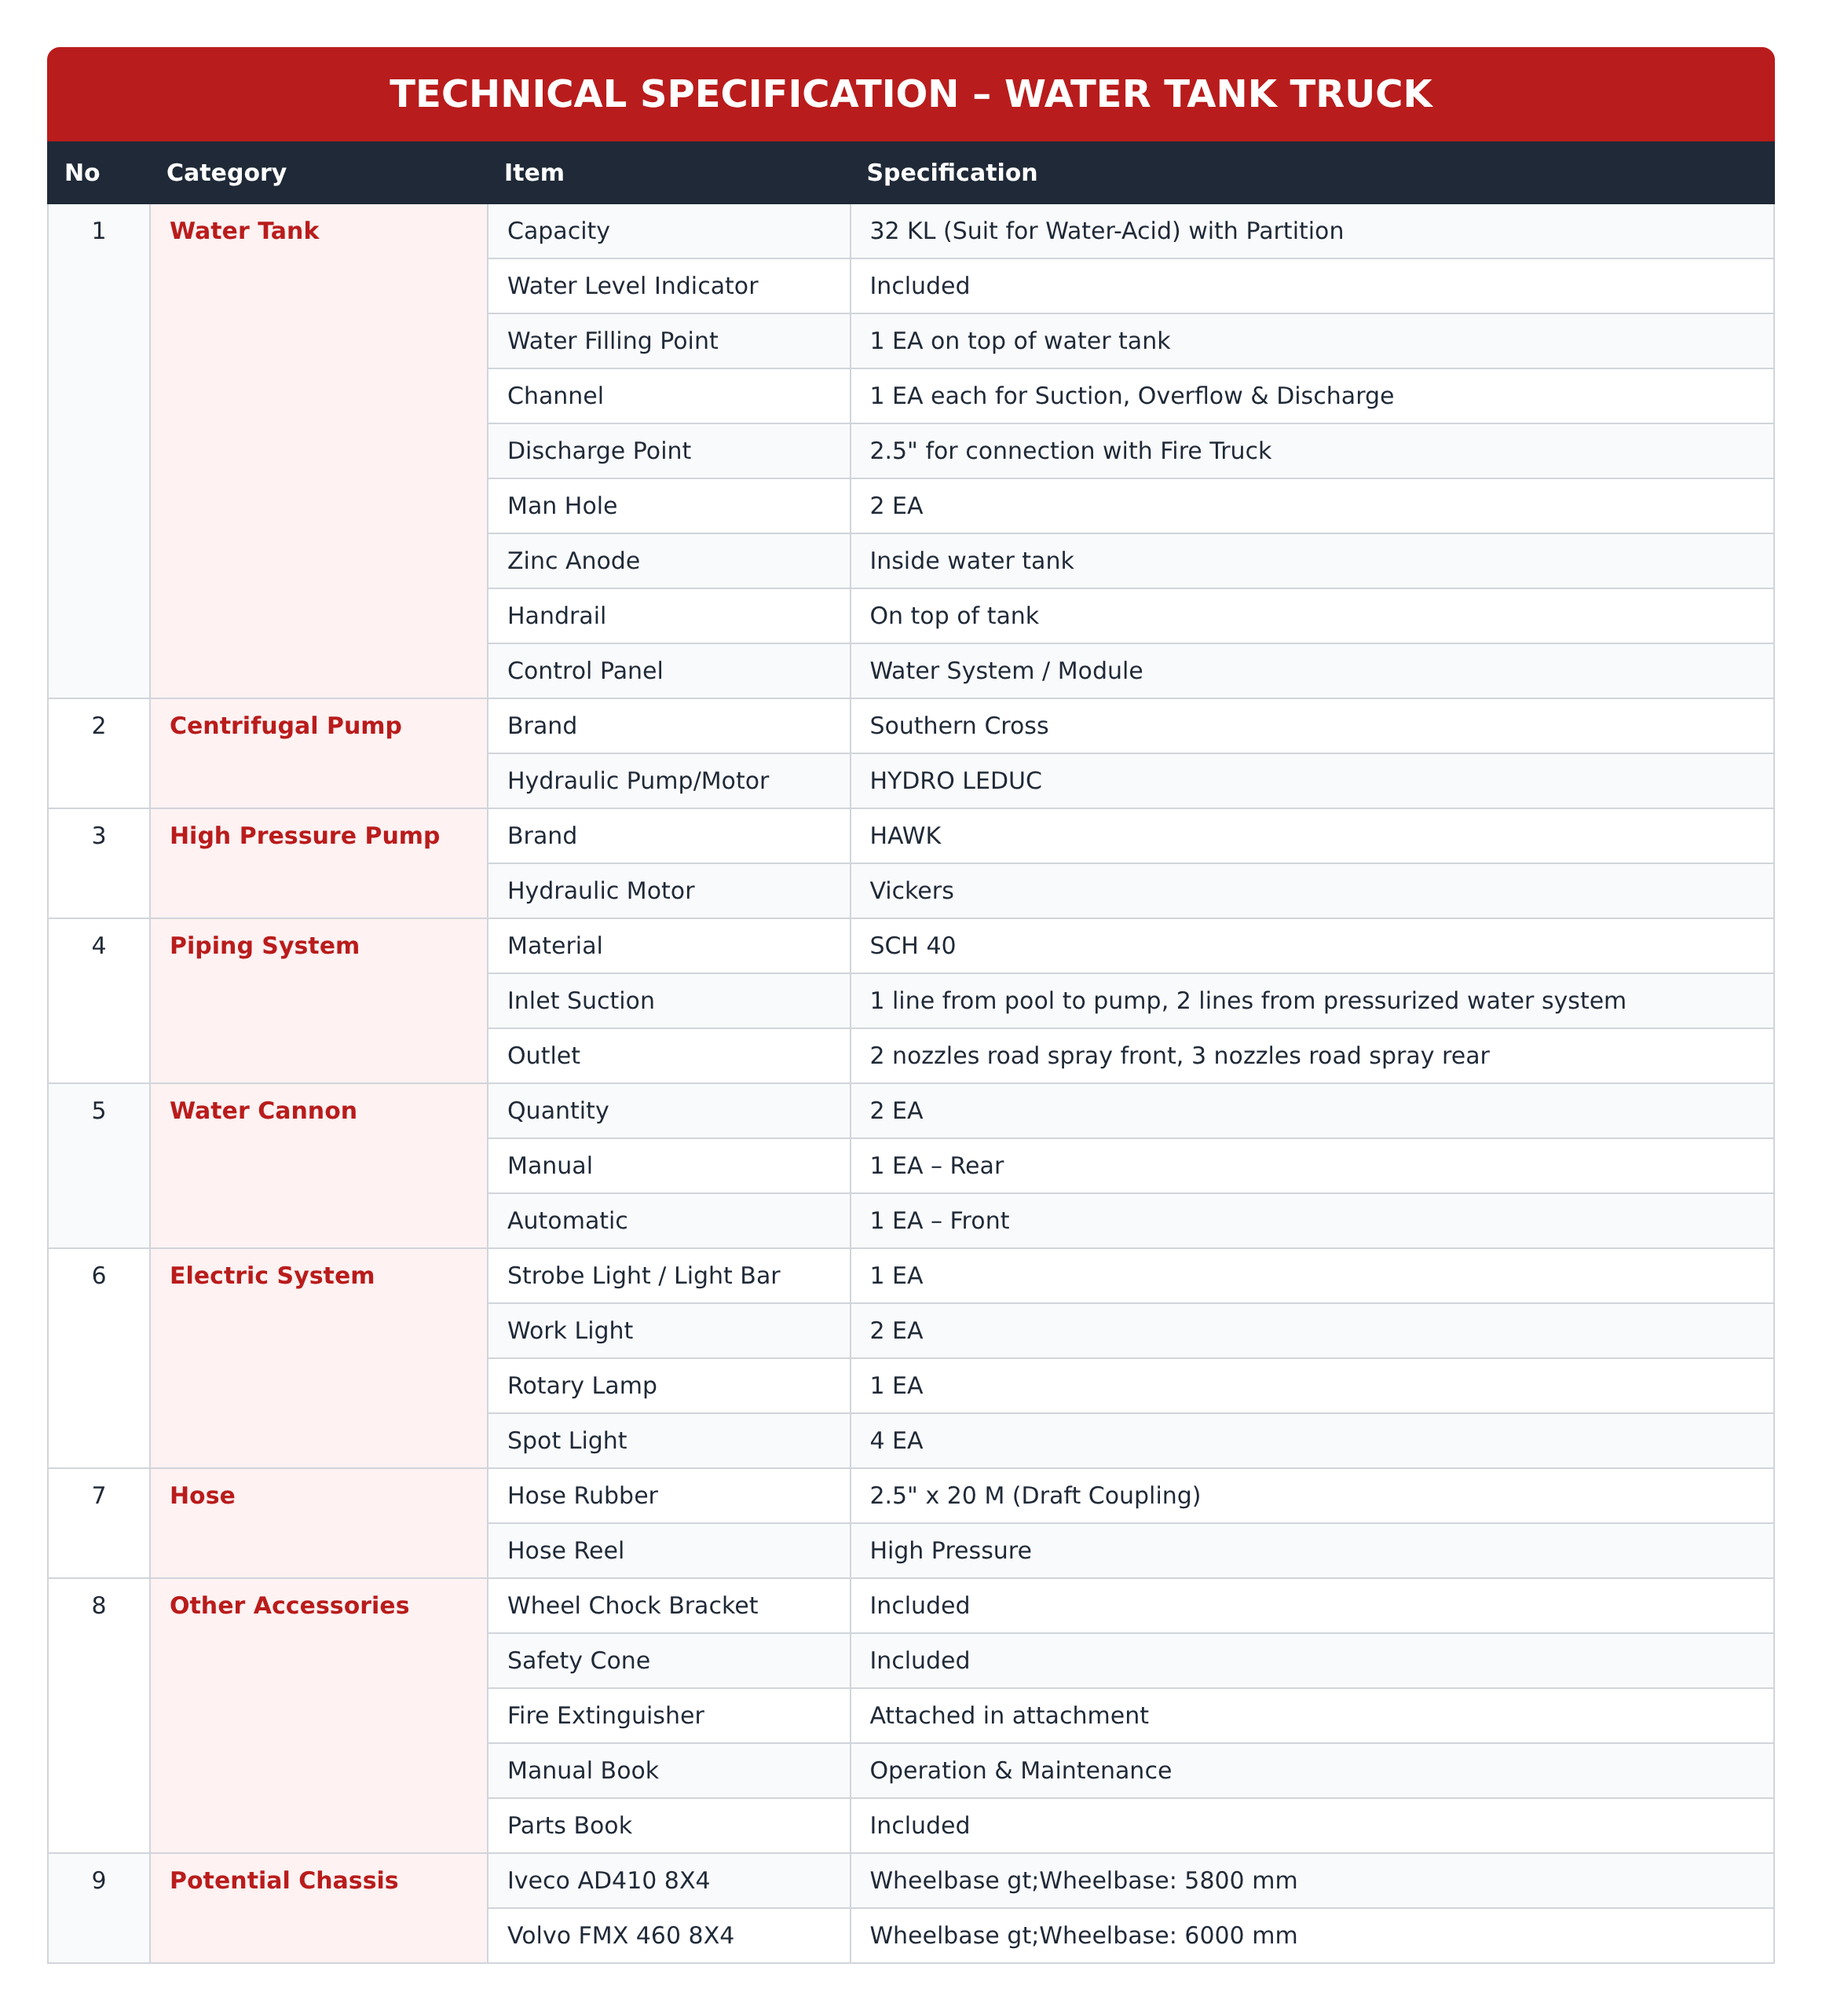
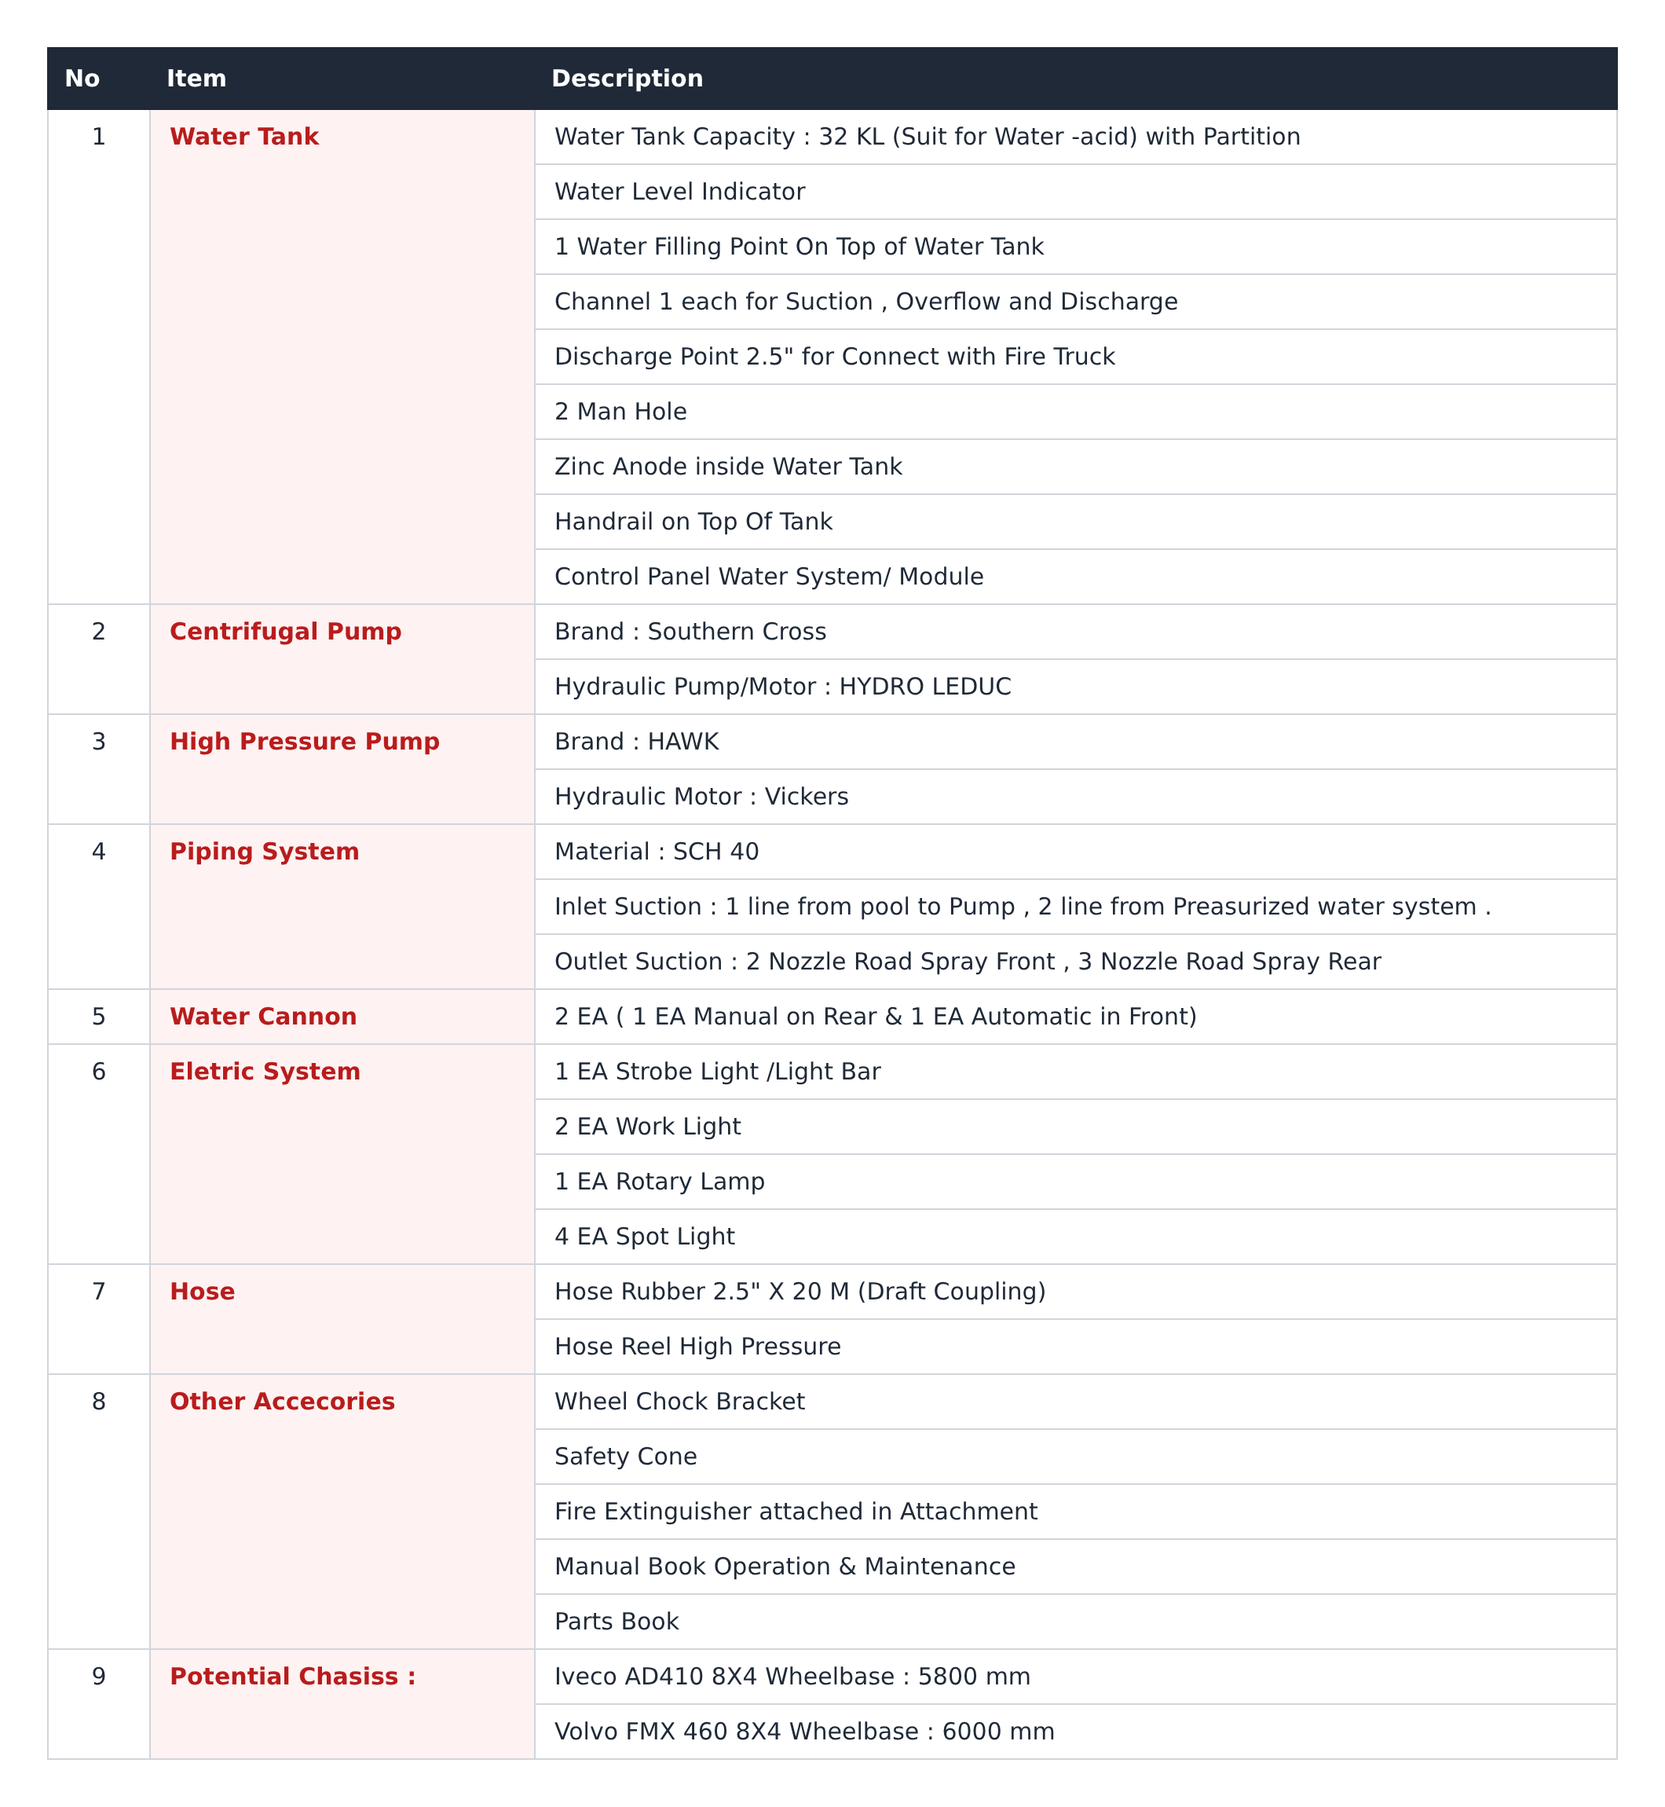
Use original specification text verbatim in table
Claude-Session: https://claude.ai/code/session_01WVXA4RPNs2JwgP1czcHMWC

diff --git a/spesifikasi/table.html b/spesifikasi/table.html
@@ -1,44 +1,39 @@
 <!doctype html><html><head><meta charset="utf-8"><style>
-body{font-family:"DejaVu Sans",Arial,sans-serif;background:#fff;width:1100px;padding:30px;margin:0;color:#1f2937}
-h1{background:#b91c1c;color:#fff;font-size:24px;padding:16px 20px;margin:0;border-radius:8px 8px 0 0;text-align:center}
+body{font-family:"DejaVu Sans",Arial,sans-serif;background:#fff;width:1000px;padding:30px;margin:0;color:#1f2937}
 table{width:100%;border-collapse:collapse;font-size:15px}
 th{background:#1f2937;color:#fff;padding:10px;text-align:left;border:1px solid #1f2937}
 td{border:1px solid #d1d5db;padding:8px 12px;vertical-align:top}
-td.cat{background:#fef2f2;font-weight:bold;color:#b91c1c;width:190px}
+td.cat{background:#fef2f2;font-weight:bold;color:#b91c1c;width:220px}
 td.no{text-align:center;width:40px}
-tr:nth-child(even) td:not(.cat){background:#f9fafb}
-</style></head><body><h1>TECHNICAL SPECIFICATION – WATER TANK TRUCK</h1>
-<table><tr><th>No</th><th>Category</th><th>Item</th><th>Specification</th></tr>
-<tr><td class="no" rowspan="9">1</td><td class="cat" rowspan="9">Water Tank</td><td>Capacity</td><td>32 KL (Suit for Water-Acid) with Partition</td></tr>
-<tr><td>Water Level Indicator</td><td>Included</td></tr>
-<tr><td>Water Filling Point</td><td>1 EA on top of water tank</td></tr>
-<tr><td>Channel</td><td>1 EA each for Suction, Overflow &amp; Discharge</td></tr>
-<tr><td>Discharge Point</td><td>2.5" for connection with Fire Truck</td></tr>
-<tr><td>Man Hole</td><td>2 EA</td></tr>
-<tr><td>Zinc Anode</td><td>Inside water tank</td></tr>
-<tr><td>Handrail</td><td>On top of tank</td></tr>
-<tr><td>Control Panel</td><td>Water System / Module</td></tr>
-<tr><td class="no" rowspan="2">2</td><td class="cat" rowspan="2">Centrifugal Pump</td><td>Brand</td><td>Southern Cross</td></tr>
-<tr><td>Hydraulic Pump/Motor</td><td>HYDRO LEDUC</td></tr>
-<tr><td class="no" rowspan="2">3</td><td class="cat" rowspan="2">High Pressure Pump</td><td>Brand</td><td>HAWK</td></tr>
-<tr><td>Hydraulic Motor</td><td>Vickers</td></tr>
-<tr><td class="no" rowspan="3">4</td><td class="cat" rowspan="3">Piping System</td><td>Material</td><td>SCH 40</td></tr>
-<tr><td>Inlet Suction</td><td>1 line from pool to pump, 2 lines from pressurized water system</td></tr>
-<tr><td>Outlet</td><td>2 nozzles road spray front, 3 nozzles road spray rear</td></tr>
-<tr><td class="no" rowspan="3">5</td><td class="cat" rowspan="3">Water Cannon</td><td>Quantity</td><td>2 EA</td></tr>
-<tr><td>Manual</td><td>1 EA – Rear</td></tr>
-<tr><td>Automatic</td><td>1 EA – Front</td></tr>
-<tr><td class="no" rowspan="4">6</td><td class="cat" rowspan="4">Electric System</td><td>Strobe Light / Light Bar</td><td>1 EA</td></tr>
-<tr><td>Work Light</td><td>2 EA</td></tr>
-<tr><td>Rotary Lamp</td><td>1 EA</td></tr>
-<tr><td>Spot Light</td><td>4 EA</td></tr>
-<tr><td class="no" rowspan="2">7</td><td class="cat" rowspan="2">Hose</td><td>Hose Rubber</td><td>2.5" x 20 M (Draft Coupling)</td></tr>
-<tr><td>Hose Reel</td><td>High Pressure</td></tr>
-<tr><td class="no" rowspan="5">8</td><td class="cat" rowspan="5">Other Accessories</td><td>Wheel Chock Bracket</td><td>Included</td></tr>
-<tr><td>Safety Cone</td><td>Included</td></tr>
-<tr><td>Fire Extinguisher</td><td>Attached in attachment</td></tr>
-<tr><td>Manual Book</td><td>Operation &amp; Maintenance</td></tr>
-<tr><td>Parts Book</td><td>Included</td></tr>
-<tr><td class="no" rowspan="2">9</td><td class="cat" rowspan="2">Potential Chassis</td><td>Iveco AD410 8X4</td><td>Wheelbase gt;Wheelbase: 5800 mm</td></tr>
-<tr><td>Volvo FMX 460 8X4</td><td>Wheelbase gt;Wheelbase: 6000 mm</td></tr>
+</style></head><body><table><tr><th>No</th><th>Item</th><th>Description</th></tr>
+<tr><td class="no" rowspan="9">1</td><td class="cat" rowspan="9">Water Tank</td><td>Water Tank Capacity : 32 KL (Suit for Water -acid) with Partition</td></tr>
+<tr><td>Water Level Indicator</td></tr>
+<tr><td>1 Water Filling Point On Top of Water Tank</td></tr>
+<tr><td>Channel 1 each for Suction , Overflow and Discharge</td></tr>
+<tr><td>Discharge Point 2.5&quot; for Connect with Fire Truck</td></tr>
+<tr><td>2 Man Hole</td></tr>
+<tr><td>Zinc Anode inside Water Tank</td></tr>
+<tr><td>Handrail on Top Of Tank</td></tr>
+<tr><td>Control Panel Water System/ Module</td></tr>
+<tr><td class="no" rowspan="2">2</td><td class="cat" rowspan="2">Centrifugal Pump</td><td>Brand : Southern Cross</td></tr>
+<tr><td>Hydraulic Pump/Motor : HYDRO LEDUC</td></tr>
+<tr><td class="no" rowspan="2">3</td><td class="cat" rowspan="2">High Pressure Pump</td><td>Brand : HAWK</td></tr>
+<tr><td>Hydraulic Motor : Vickers</td></tr>
+<tr><td class="no" rowspan="3">4</td><td class="cat" rowspan="3">Piping System</td><td>Material : SCH 40</td></tr>
+<tr><td>Inlet Suction : 1 line from pool to Pump , 2 line from Preasurized water system .</td></tr>
+<tr><td>Outlet Suction : 2 Nozzle Road Spray Front , 3 Nozzle Road Spray Rear</td></tr>
+<tr><td class="no" rowspan="1">5</td><td class="cat" rowspan="1">Water Cannon</td><td>2 EA ( 1 EA Manual on Rear &amp; 1 EA Automatic in Front)</td></tr>
+<tr><td class="no" rowspan="4">6</td><td class="cat" rowspan="4">Eletric System</td><td>1 EA Strobe Light /Light Bar</td></tr>
+<tr><td>2 EA Work Light</td></tr>
+<tr><td>1 EA Rotary Lamp</td></tr>
+<tr><td>4 EA Spot Light</td></tr>
+<tr><td class="no" rowspan="2">7</td><td class="cat" rowspan="2">Hose</td><td>Hose Rubber 2.5&quot; X 20 M (Draft Coupling)</td></tr>
+<tr><td>Hose Reel High Pressure</td></tr>
+<tr><td class="no" rowspan="5">8</td><td class="cat" rowspan="5">Other Accecories</td><td>Wheel Chock Bracket</td></tr>
+<tr><td>Safety Cone</td></tr>
+<tr><td>Fire Extinguisher attached in Attachment</td></tr>
+<tr><td>Manual Book Operation &amp; Maintenance</td></tr>
+<tr><td>Parts Book</td></tr>
+<tr><td class="no" rowspan="2">9</td><td class="cat" rowspan="2">Potential Chasiss :</td><td>Iveco AD410 8X4 Wheelbase : 5800 mm</td></tr>
+<tr><td>Volvo FMX 460 8X4 Wheelbase : 6000 mm</td></tr>
 </table></body></html>
